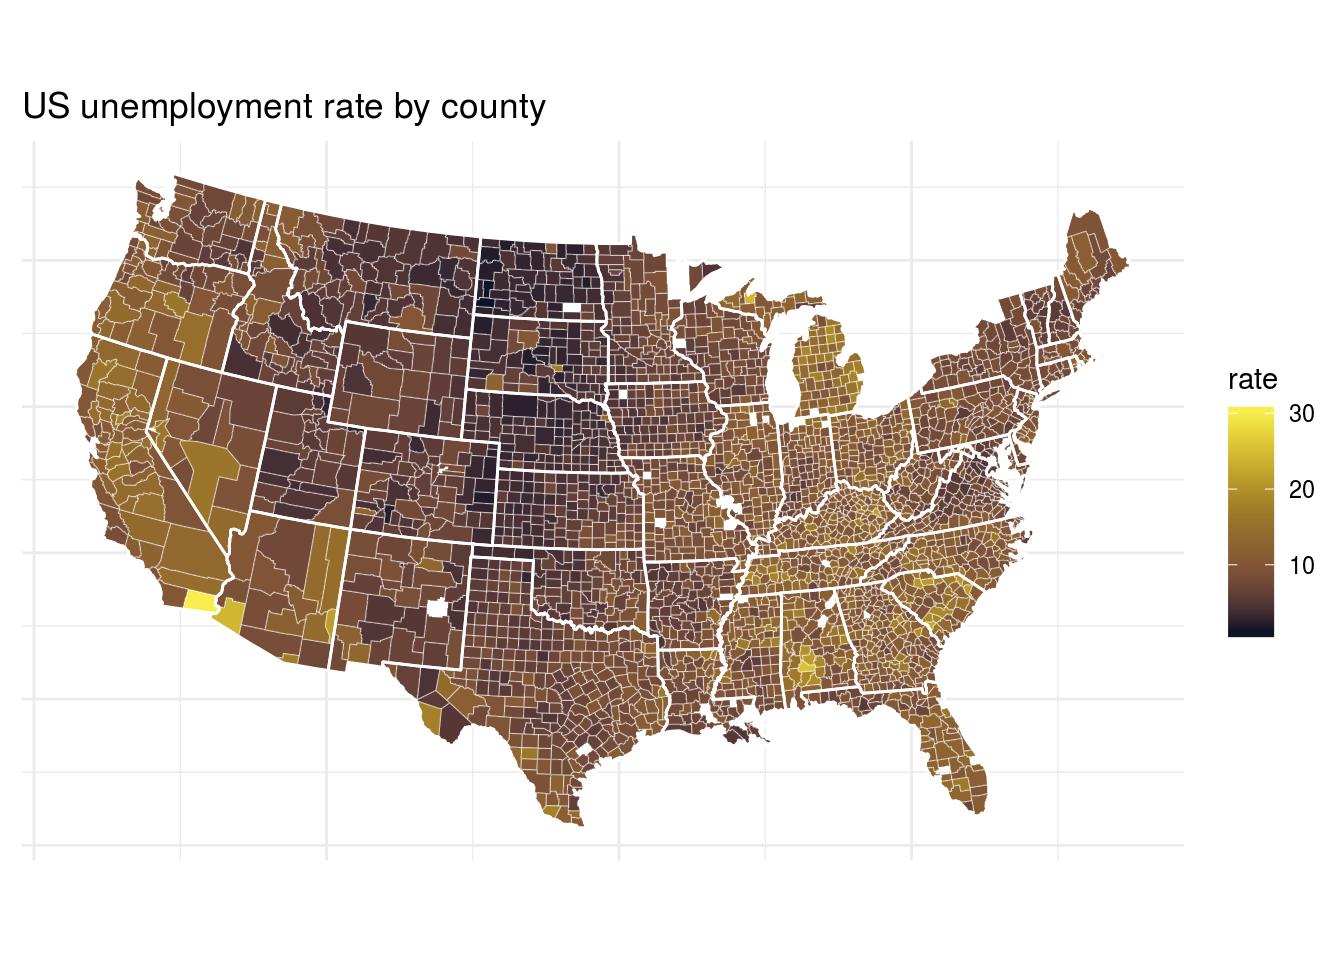
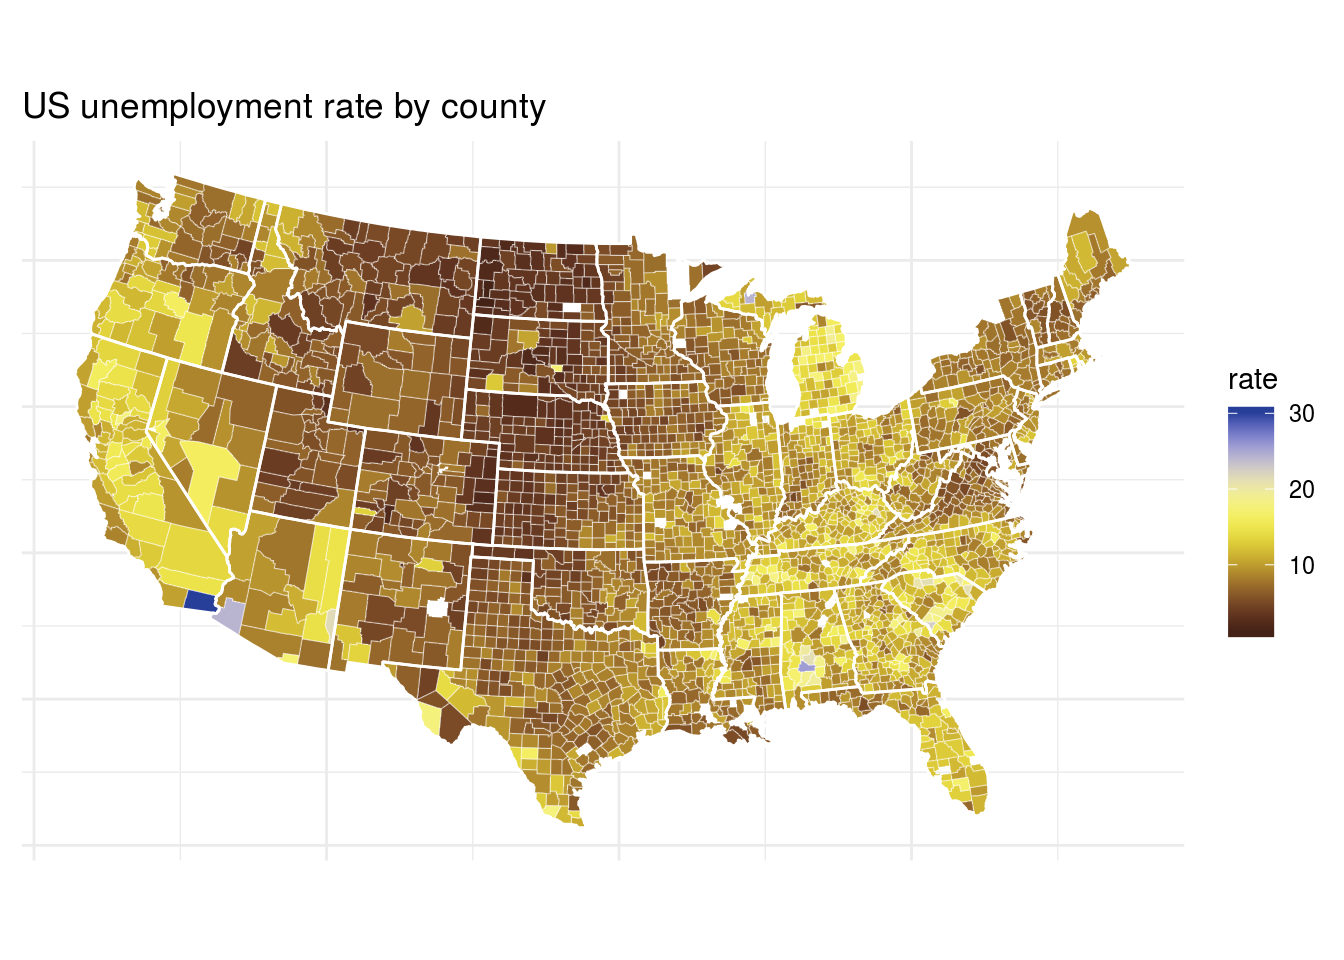
readme update

Changed region(s): [[0.0312, 0.1875, 0.8438, 0.875], [0.9062, 0.4062, 0.9688, 0.6875]]

diff --git a/README.md b/README.md
@@ -3,6 +3,9 @@
 -   [The colour scales](#the-colour-scales)
 -   [Usage](#usage)
 
+[![Build
+Status](https://api.travis-ci.org/nschiett/fishualize.png?branch=master)](https://travis-ci.org/nschiett/fishualize)
+
 `fishualize` allows you to implement the color pattern or your favourite
 fish for all you graphs.
 
@@ -122,34 +125,7 @@ county_df$state_name <- NULL
 state_df <- map_data("state", projection = "albers", parameters = c(39, 45))
 choropleth <- merge(county_df, unemp, by = c("state", "county"))
 choropleth <- choropleth[order(choropleth$order), ]
-ggplot(choropleth, aes(long, lat, group = group)) +
-  geom_polygon(aes(fill = rate), colour = alpha("white", 1 / 2), size = 0.2) +
-  geom_polygon(data = state_df, colour = "white", fill = NA) +
-  coord_fixed() +
-  theme_minimal() +
-  ggtitle("US unemployment rate by county") +
-  theme(axis.line = element_blank(), axis.text = element_blank(),
-        axis.ticks = element_blank(), axis.title = element_blank()) +
-  scale_fill_fish(option="Ostracion_cubicus")
-```
 
-<img src="README_files/figure-markdown_github/ggplot2-1.png" width="672" />
-
-``` r
-ggplot(choropleth, aes(long, lat, group = group)) +
-  geom_polygon(aes(fill = rate), colour = alpha("white", 1 / 2), size = 0.2) +
-  geom_polygon(data = state_df, colour = "white", fill = NA) +
-  coord_fixed() +
-  theme_minimal() +
-  ggtitle("US unemployment rate by county") +
-  theme(axis.line = element_blank(), axis.text = element_blank(),
-        axis.ticks = element_blank(), axis.title = element_blank()) +
-  scale_fill_fish(option = "Trimma_lantana")
-```
-
-<img src="README_files/figure-markdown_github/ggplot2-2.png" width="672" />
-
-``` r
 ggplot(choropleth, aes(long, lat, group = group)) +
   geom_polygon(aes(fill = rate), colour = alpha("white", 1 / 2), size = 0.2) +
   geom_polygon(data = state_df, colour = "white", fill = NA) +
@@ -161,21 +137,7 @@ ggplot(choropleth, aes(long, lat, group = group)) +
   scale_fill_fish(option = "Zebrasoma_velifer")
 ```
 
-<img src="README_files/figure-markdown_github/ggplot2-3.png" width="672" />
-
-``` r
-ggplot(choropleth, aes(long, lat, group = group)) +
-  geom_polygon(aes(fill = rate), colour = alpha("white", 1 / 2), size = 0.2) +
-  geom_polygon(data = state_df, colour = "white", fill = NA) +
-  coord_fixed() +
-  theme_minimal() +
-  ggtitle("US unemployment rate by county") +
-  theme(axis.line = element_blank(), axis.text = element_blank(),
-        axis.ticks = element_blank(), axis.title = element_blank()) +
-  scale_fill_fish(option = "Chlorurus_microrhinos")
-```
-
-<img src="README_files/figure-markdown_github/ggplot2-4.png" width="672" />
+<img src="README_files/figure-markdown_github/ggplot2-1.png" width="672" />
 
 The ggplot functions also can be used for discrete scales with the
 argument `discrete=TRUE`.
